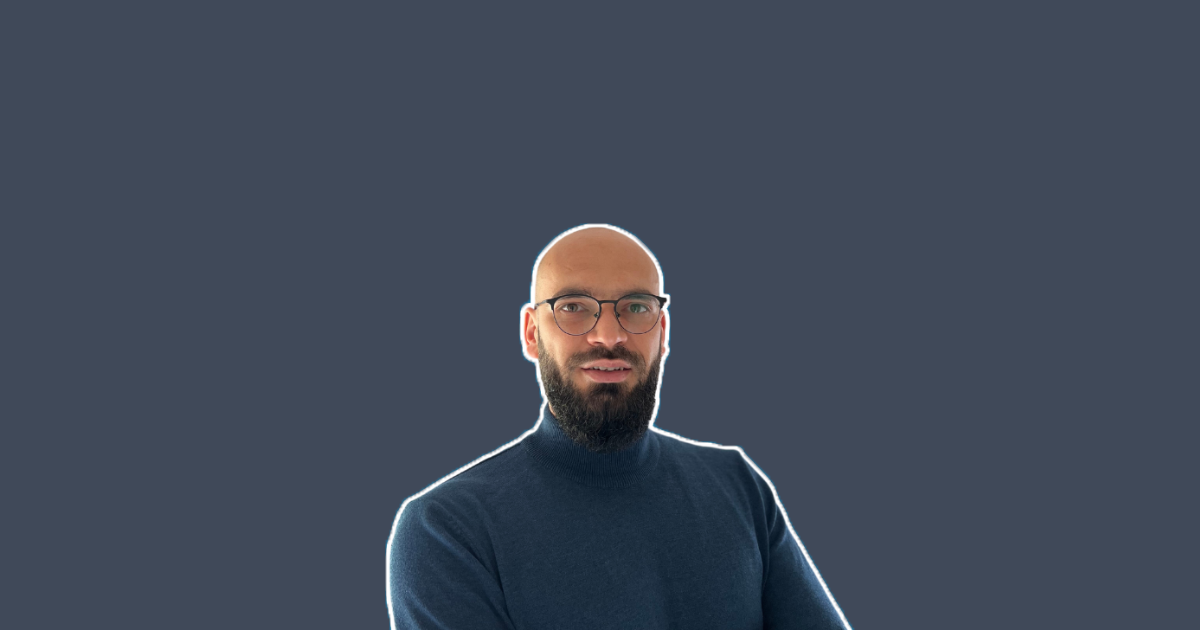
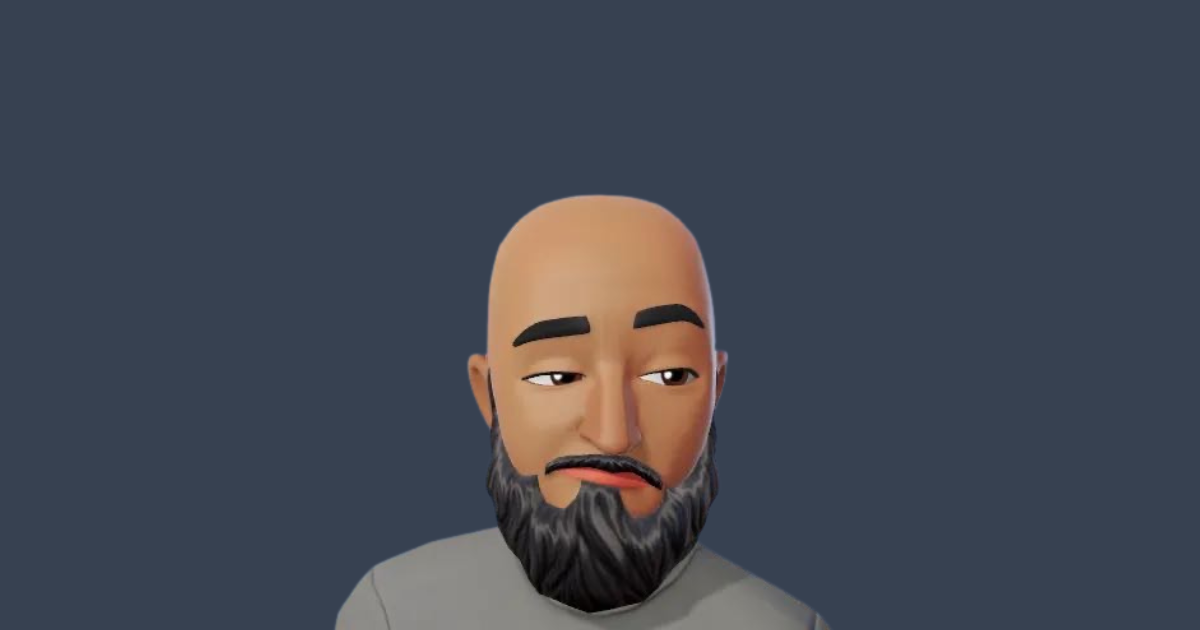
changed profile pic and profile pic name

Changed region(s): [[0.2775, 0.3016, 0.7092, 1.0]]

diff --git a/app/home/components/Image.tsx b/app/home/components/Image.tsx
@@ -15,8 +15,8 @@ const ImageComponent = () => {
 
   const ImgSrc =
     theme && theme === "light"
-      ? "/static/images/profile/profiledark.png"
-      : "/static/images/profile/profilelight.png";
+      ? "/static/images/profile/profile-dark.png"
+      : "/static/images/profile/profile-light.png";
 
   return (
     <Image
